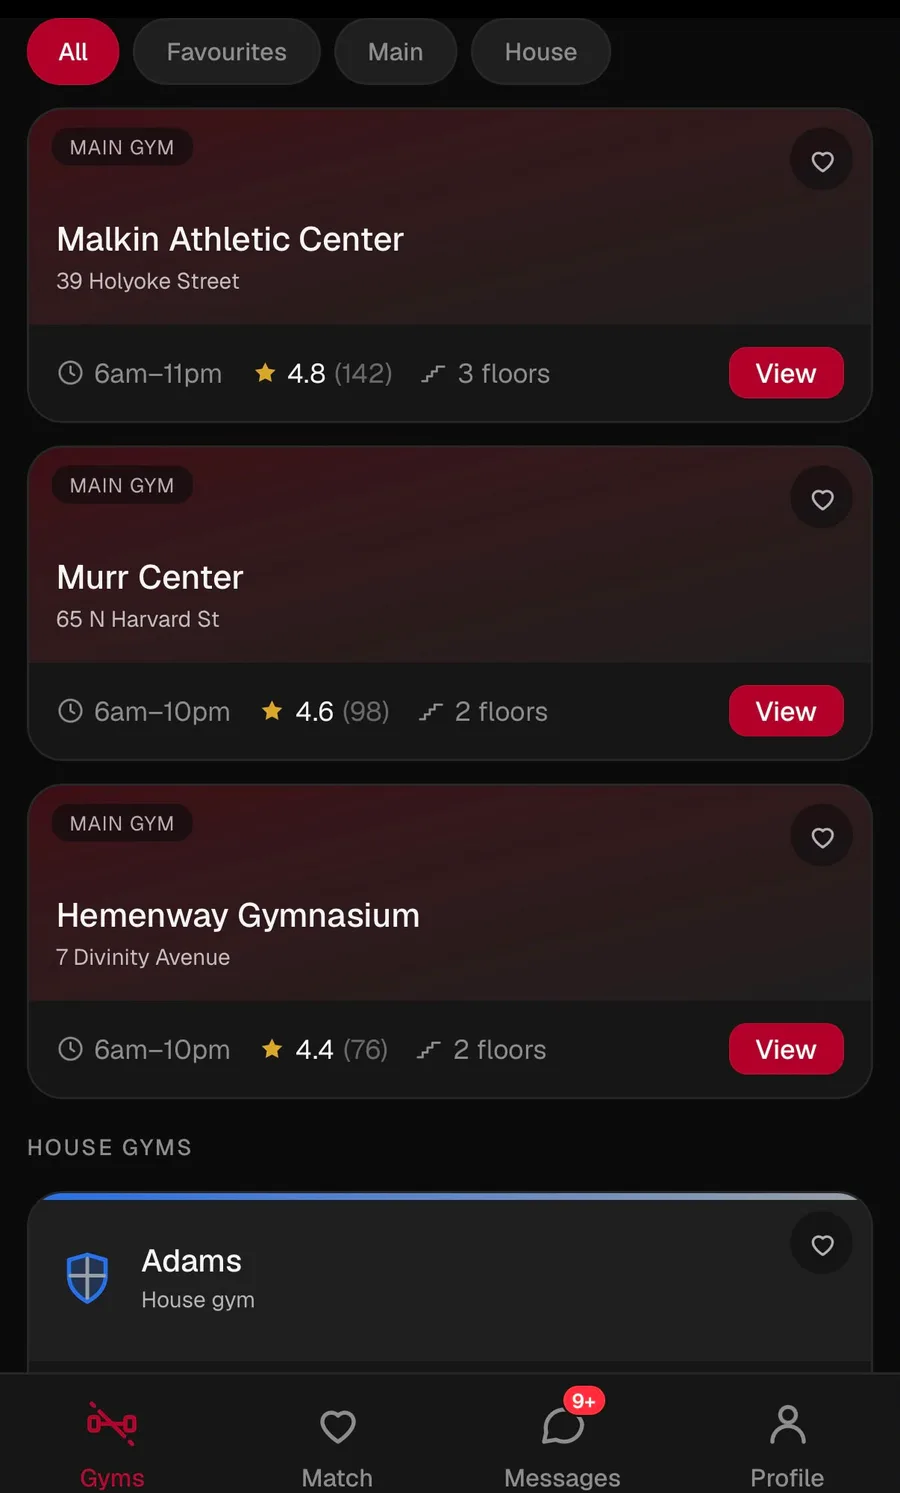
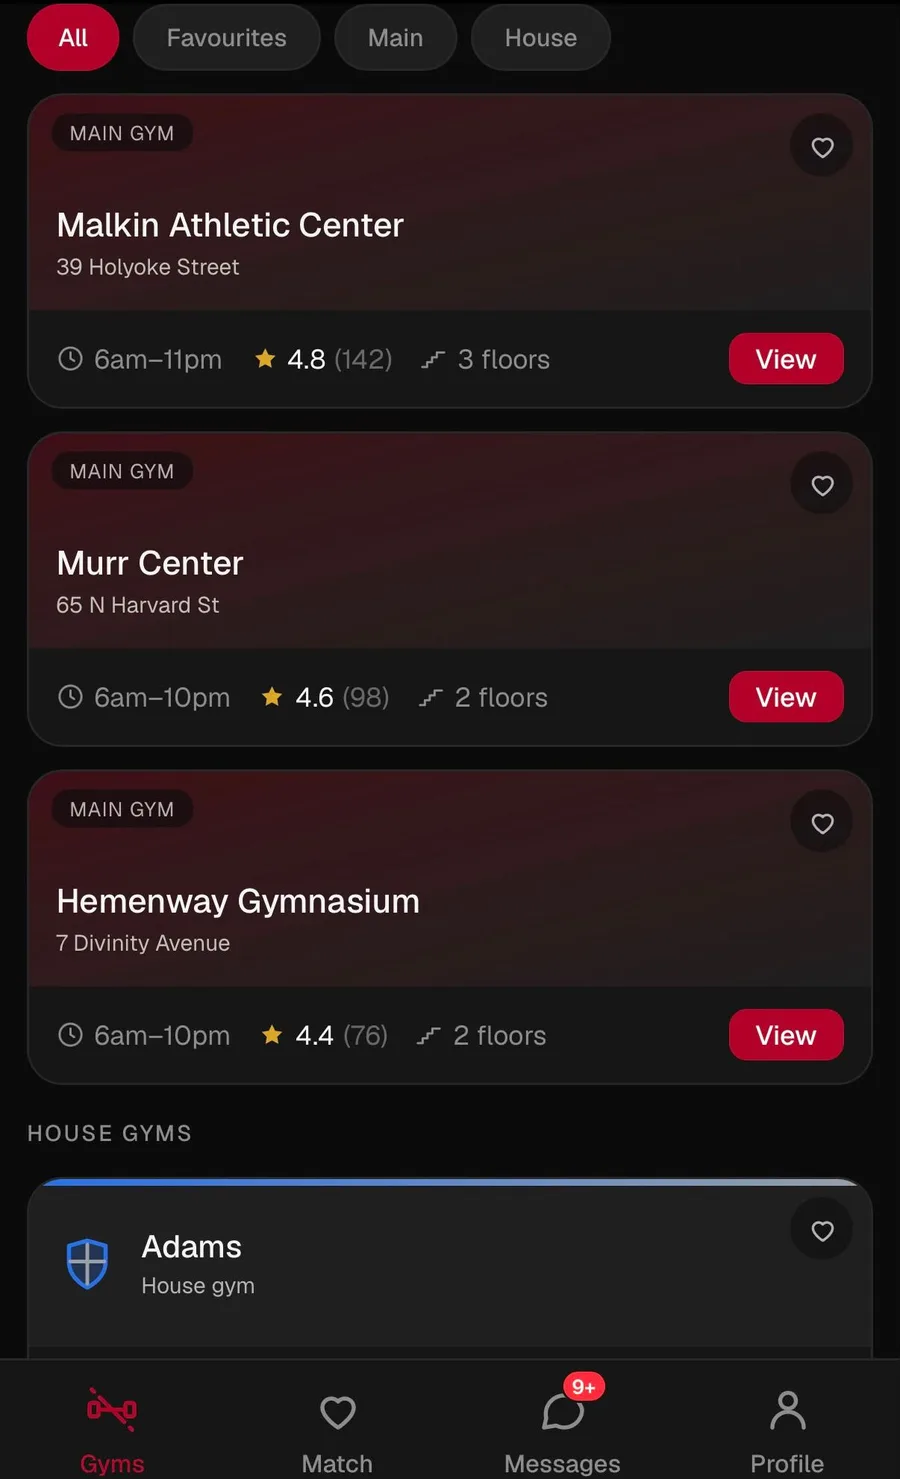
chore(landing): reshot frames, and a crop that actually lines up
The corrected chat and profile shots replace their contradictory
versions, and beat 5 becomes two frames: logging the session with the
partner carried over from the chat, then the photos and the note.

The previous crop looked right but was not. Sharp applies extend AFTER
resize regardless of call order, so the padding was added at full size to
an already-scaled image and every frame came out a slightly different
height — the exact thing the padding existed to prevent. Cropping and
padding now finish in one pass and the scaling happens in a second, so
all seven frames are 900x1479 to the pixel.

diff --git a/mockups/landing-scroll-brief.md b/mockups/landing-scroll-brief.md
@@ -195,7 +195,7 @@ the entire "reveal" — nothing more.
 ## Assets
 
 Cropped and normalised screenshots live in `public/landing/`, every one of them
-**900 × 1493**, WebP, bottom-flush so the app's nav bar always sits on the frame's
+**900 × 1479**, WebP, bottom-flush so the app's nav bar always sits on the frame's
 bottom edge. They are cut from raw phone screenshots: the OS status and gesture bands
 are removed, and the shorter ones are padded above with the app's black background so
 all frames share one canvas. **Identical dimensions are not cosmetic** — a cross-fade
@@ -209,8 +209,9 @@ Any new screenshot must go through the same treatment before it is used.
 | `02-match.webp` | 2 — then it finds your people |
 | `03-why-you-match.webp` | 3 — and it tells you why |
 | `04-plan-a-session.webp` | 4 — agree on a session in the chat |
-| `05-log-a-session.webp` | 5 — afterwards it logs itself |
-| `06-your-profile.webp` | spare — not in the five, useful for the hero |
+| `05-log-a-session.webp` | 5a — logging it, partner carried over from the chat |
+| `06-memories.webp` | 5b — photos and the note, "memories from the session" |
+| `07-your-profile.webp` | spare — useful for the hero |
 
 Animation 2's four frames are not shot yet.
 
